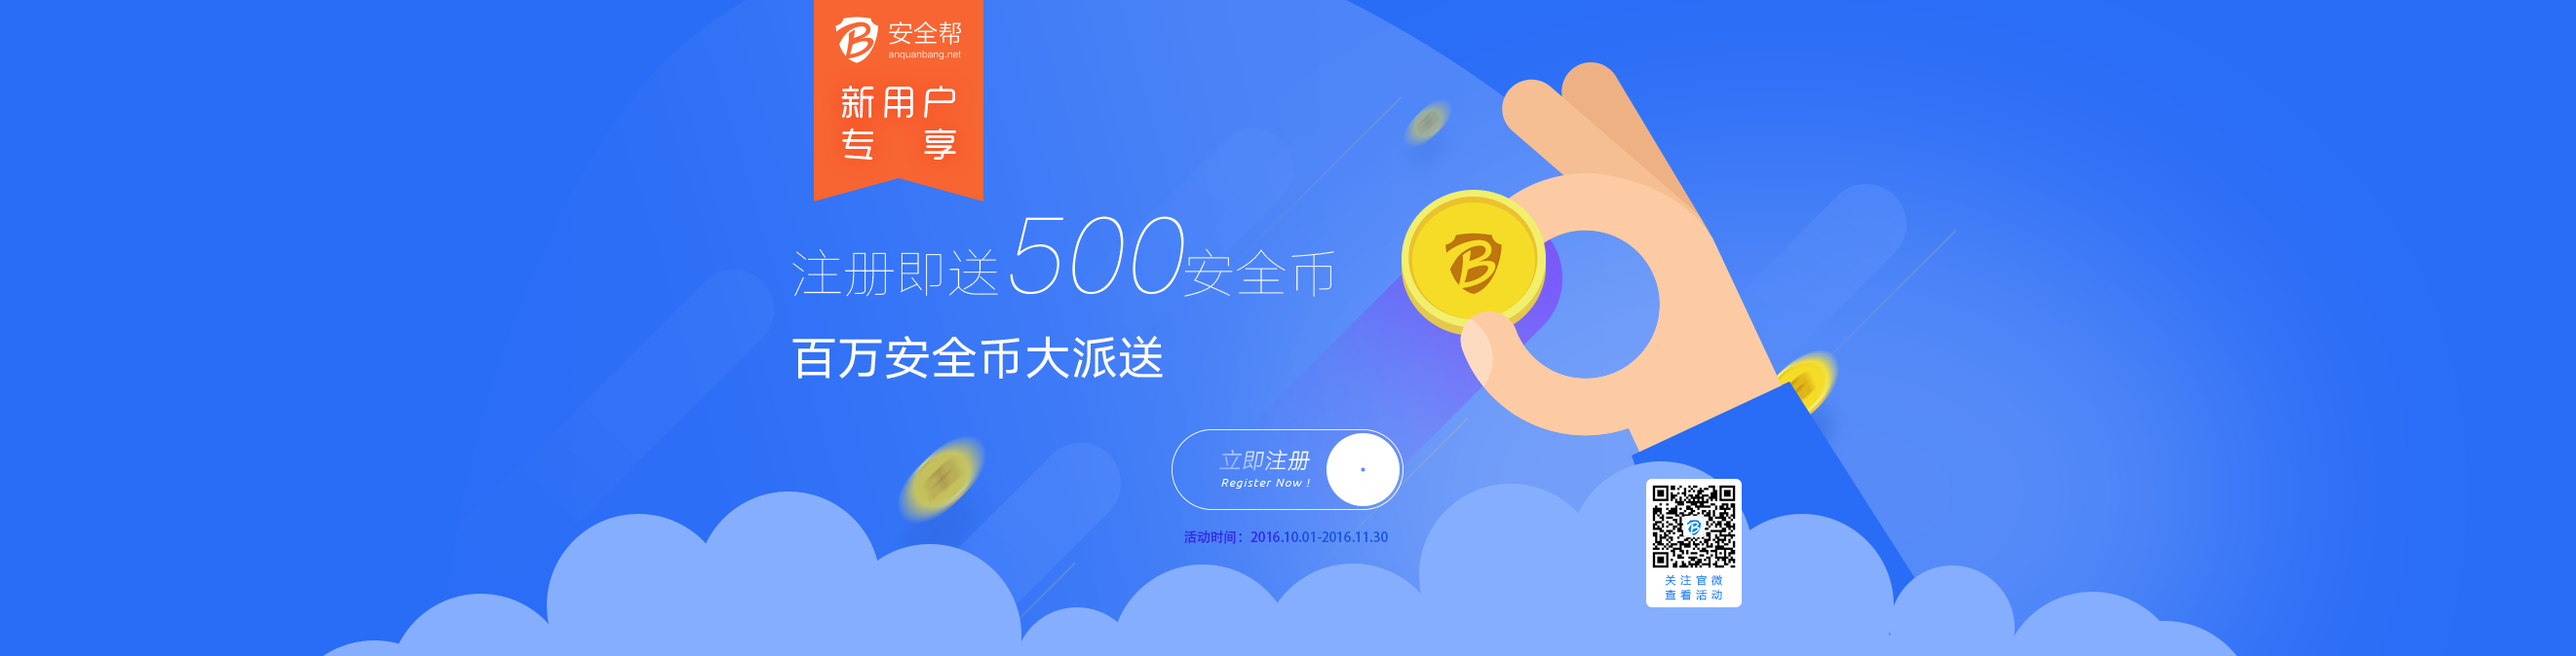
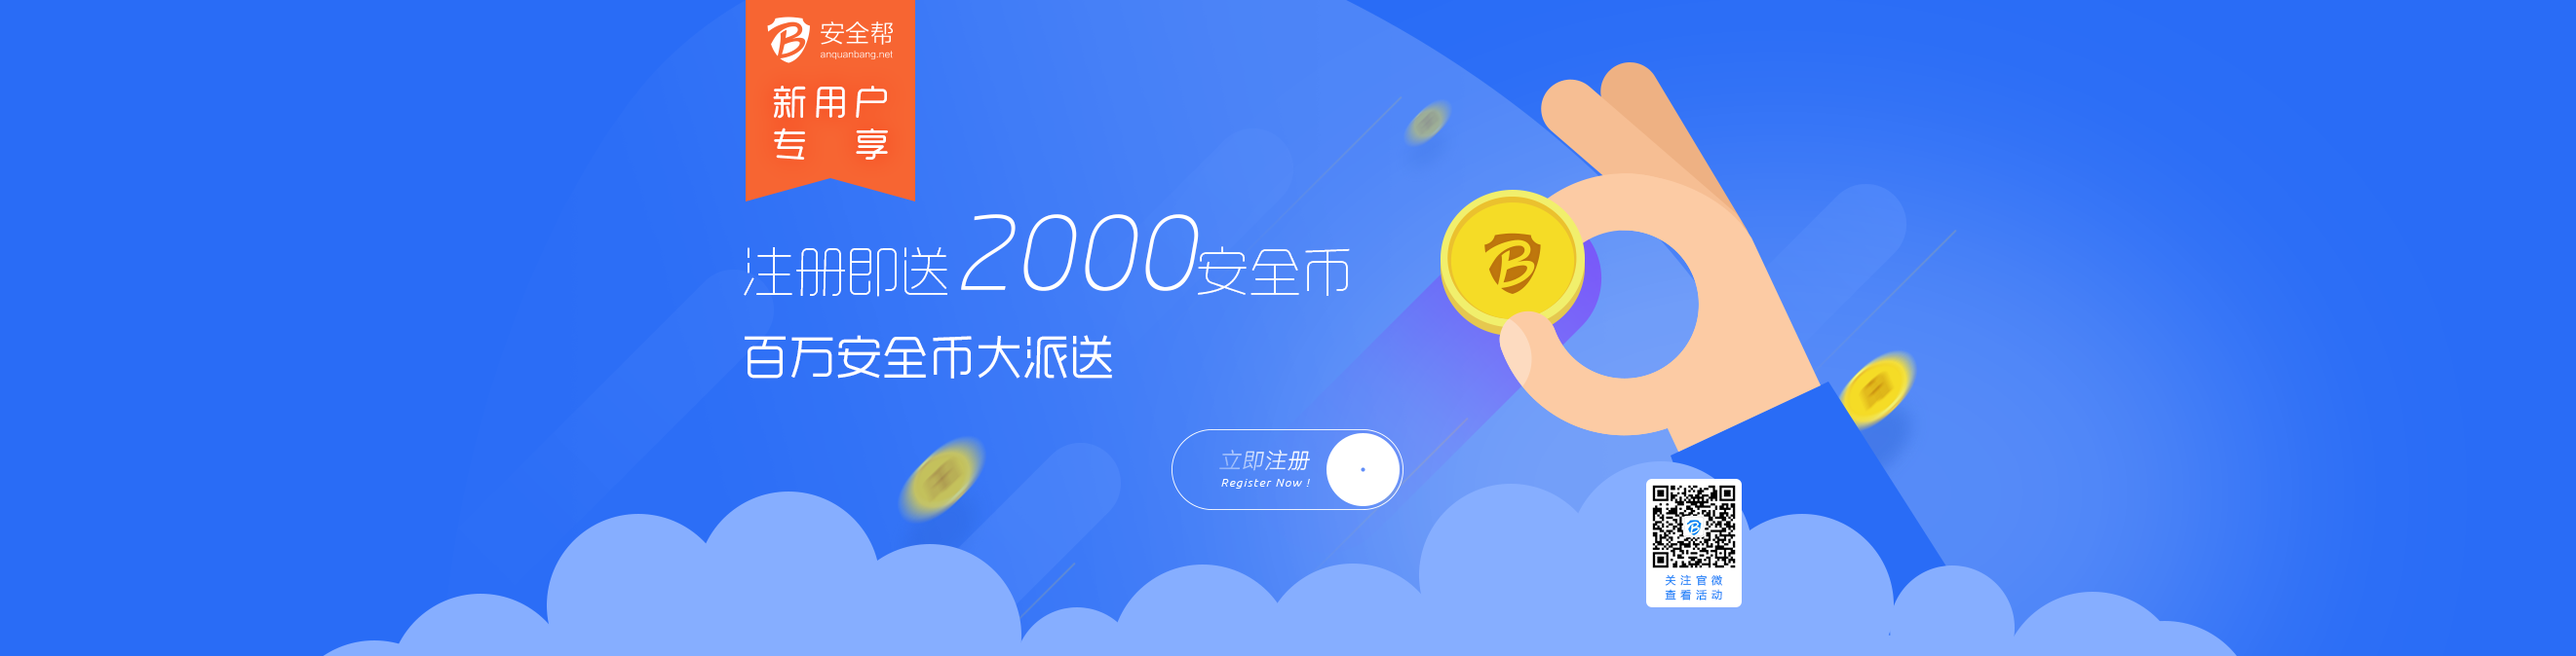
修改注册赠送安全币500为2000

Changed region(s): [[0.2792, 0.0, 0.7756, 0.8724], [0.2792, 0.4985, 0.4654, 0.592], [0.4654, 0.8101, 0.5274, 0.8412]]

diff --git a/csp2/cloud-security-platform-jg/src/com/cn/ctbri/controller/UserController.java b/csp2/cloud-security-platform-jg/src/com/cn/ctbri/controller/UserController.java
@@ -50,7 +50,6 @@ import com.cn.ctbri.service.IOrderAssetService;
 import com.cn.ctbri.service.IOrderService;
 import com.cn.ctbri.service.ISelfHelpOrderService;
 import com.cn.ctbri.service.IServiceAPIService;
-import com.cn.ctbri.service.IServiceSysService;
 import com.cn.ctbri.service.ITaskService;
 import com.cn.ctbri.service.IUserService;
 import com.cn.ctbri.util.AddressUtils;
@@ -93,9 +92,6 @@ public class UserController{
     ITaskService taskService;
 	@Autowired
 	IAdvertisementService adService;
-	@Autowired
-    IServiceSysService serviceSysService;
-	
 
 	/**
 	 * 功能描述： 基本资料
@@ -299,8 +295,6 @@ public class UserController{
         //获取首页的广告
         List adList = adService.findAdvertisementByType(0);
         
-        List servSyslist = serviceSysService.findSysPriceList();
-        
         //查询网页篡改个数 
 //        int whorseNum = selfHelpOrderService.findLeakNum(3);
         //查询木马检测个数 
@@ -322,7 +316,6 @@ public class UserController{
         m.addAttribute("servList", servList);
         m.addAttribute("servAPIList", servAPIList);
         m.addAttribute("adList", adList);
-        m.addAttribute("servSyslist", servSyslist);
 //        m.addAttribute("noticeList", list);
 		return "/main";
 	}
@@ -819,29 +812,22 @@ public class UserController{
 	@RequestMapping(value="orderList.html")
 	public String orderList(HttpServletRequest request){
 		User globle_user = (User) request.getSession().getAttribute("globle_user");
-//		List orderList = orderService.findOrderByUserId(globle_user.getId());
 		List orderList = orderService.findByUserIdAndPage(globle_user.getId(),-1,null,null,1);
 		if(orderList.size()>2){
 			orderList = orderList.subList(0, 2);
 		}
         //根据orderId查询task表判断告警是否查看过
-		
         if(orderList != null && orderList.size() > 0){
         	//个人中心显示前两条订单信息
 	        for(int i = 0; i < orderList.size(); i++){
 	        	HashMap<String,Object>  mapOrder = (HashMap<String,Object>)orderList.get(i);
 	        	String orderListId = (String)mapOrder.get("orderListId");
 	        	//根据orderListId查询订单
-	        	List ol = orderService.findByOrderListId(orderListId,null); // 查询from cs_order o,cs_service s  o.orderListId = orderlistid
+	        	List ol = orderService.findByOrderListId(orderListId,null);
 	        	for(int j = 0; j < ol.size(); j++){
 	        		//获取对应资产 add by tangxr 2016-4-25
 		        	HashMap<String,Object>  map = (HashMap<String,Object>)ol.get(j);
 		        	String orderId = (String)map.get("id");
-		        	String type1 = map.get("type").toString();
-		        	
-		        	//Map<String,Object> paramMap = new HashMap<String,Object>();
-		        	//paramMap.put("orderId", orderId);
-		        	//paramMap.put("type", type1);
 		        	
 			        List<Asset> assetList = orderAssetService.findAssetNameByOrderId(orderId);
 			        map.put("assetList", assetList);
@@ -855,7 +841,6 @@ public class UserController{
 	        }
         }	
         
- 
         //获取当前时间
         SimpleDateFormat setDateFormat = new SimpleDateFormat("yyyy-MM-dd HH:mm:ss");
         String temp = setDateFormat.format(Calendar.getInstance().getTime());
@@ -1007,7 +992,7 @@ public class UserController{
 			//生成apikey add by tangxr 2016-4-9
 			user.setApikey(UUID.randomUUID().toString().replace("-", ""));
 			
-			//安全币功能(注册时奖励500安全币)  add by zhangsh 2016-5-17
+			//安全币功能(注册时奖励2000安全币)  add by zhangsh 2016-5-17
 			user.setBalance(2000D);
 			//user.setLastSignInTime(new Date());
 			userService.insert(user);
@@ -1927,7 +1912,11 @@ public class UserController{
   		m.addAttribute("currentId", currentId);
 	  	} catch (UnsupportedEncodingException e) {
 	  		e.printStackTrace();
-	  	}  	  
+	  	} catch (Exception e) {
+	  		e.printStackTrace();
+//	  		m.addAttribute("error", "服务器异常，请您耐心等待...");
+//	  		return "/source/page/anquanbang/anquan_state";
+	  	} 	  
 
 		return "/source/page/anquanbang/anquan_state";
 	}
@@ -1986,7 +1975,7 @@ public class UserController{
 	}
 	
 	/**
-	 * 功能描述： 跳转api安全帮
+	 * 功能描述： 跳转网站安全帮
 	 *		 @time 2016-4-18
 	 */
 	@RequestMapping(value="/api_anquanbang.html")
@@ -2149,37 +2138,5 @@ public class UserController{
 		} catch (IOException e) {
 			e.printStackTrace();
 		}
-	}
-	
-	/**
-	 * 功能描述： 跳转系统安全帮
-	 *		 @time 2017-2-8
-	 */
-	@RequestMapping(value="/system_anquanbang.html")
-	public String systemAnquanbang(Model m){
-	    //获取公告
-	    List<Notice> list = noticeService.findAllNotice();
-	    //获取服务类型
-        List servList = serviceSysService.findSysPriceList();//需要修改为system
-        //查询漏洞个数
-        int leakNum = selfHelpOrderService.findLeakNum(1);
-        //查询网页数
-        int webPageNum = selfHelpOrderService.findWebPageNum();
-        //检测网页数
-        int webSite = selfHelpOrderService.findWebSite();
-        //断网次数
-        int brokenNetwork = selfHelpOrderService.findBrokenNetwork();
-        //获取安全能力API页面的广告
-        List adList = adService.findAdvertisementByType(2);
-        
-        System.out.println(servList);
-        m.addAttribute("leakNum", leakNum);
-        m.addAttribute("webPageNum", webPageNum);
-        m.addAttribute("webSite", webSite);
-        m.addAttribute("brokenNetwork", brokenNetwork);
-        m.addAttribute("servList", servList);
-        m.addAttribute("noticeList", list);
-        m.addAttribute("adList", adList);
-		return "/source/page/child/system_anquanbang";
 	}
 }
